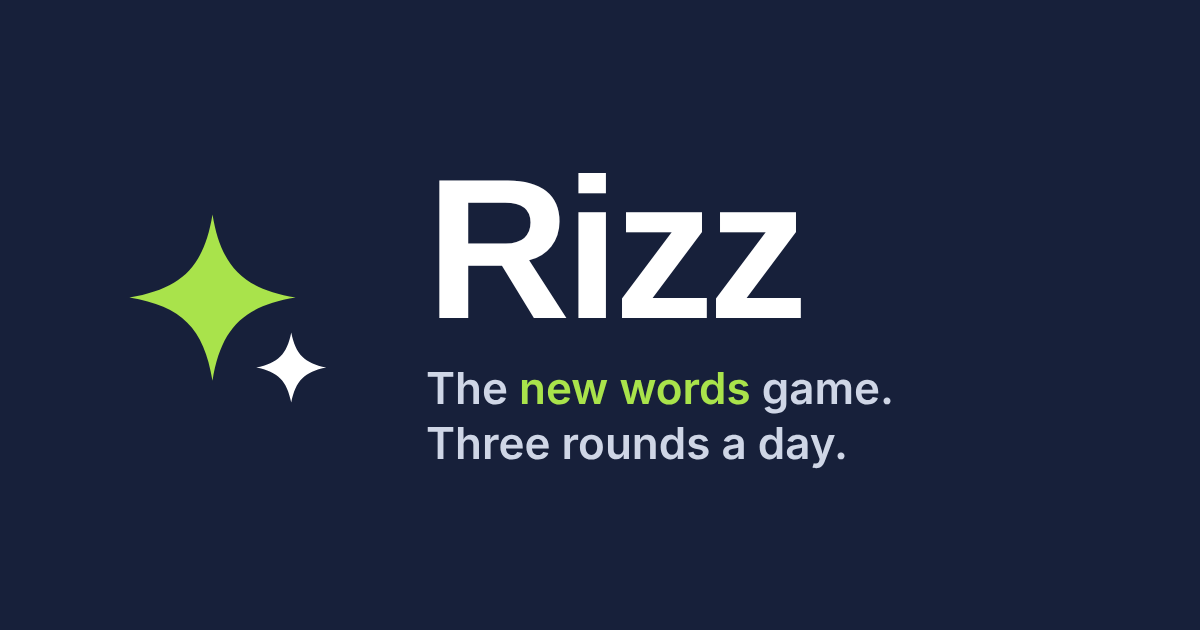
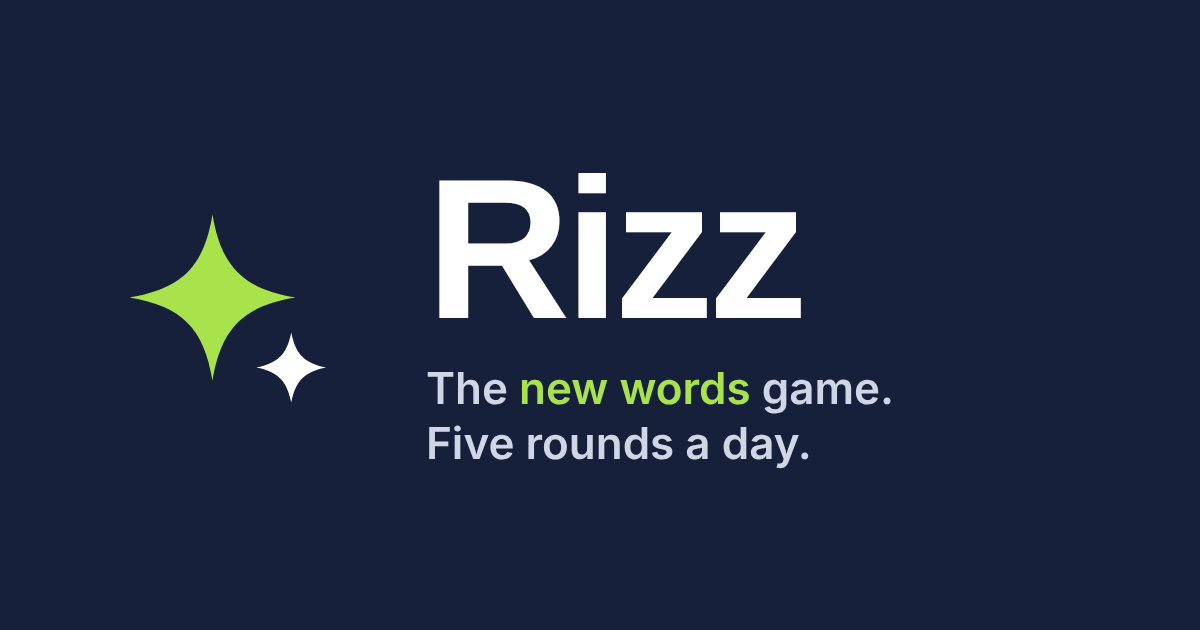
Rizz: five mixed rounds a day from ten round types
Adds Blend it, Old word new trick, Where did it come from?, Older than you think,
Use it right, Spell it out, and a Sunday Translate it finale.

Claude-Session: https://claude.ai/code/session_01JwTRy2HaWojF1gWLi9FkmA

Changed region(s): [[0.3392, 0.6635, 0.7092, 0.754]]

diff --git a/rizz/data.js b/rizz/data.js
@@ -90,3 +90,141 @@ const FAKE = [
  {r:[["dashcam","A camera on a car's dashboard","Merriam-Webster, 2025"],["dad bod","A comfy, less-than-gym-toned physique","Merriam-Webster, 2025"],["shapewear","Tight underwear that smooths your outline","Merriam-Webster, 2026"]],k:["carpark karma","Finding a space right by the door"]},
  {r:[["side-eye","A sideways look of disapproval","Merriam-Webster, 2025"],["padawan","A beginner learning from an expert","Merriam-Webster, 2023"],["logline","A one-sentence summary of a story","Merriam-Webster, 2023"]],k:["sidewit","A clever reply you only think of afterwards"]}
 ];
+
+// ---------- Rounds added on 28 Oct 2026 ----------
+// The standard shape: w = the word, a = the right answer, f = three wrong answers, o = the story shown afterwards.
+
+// Blend it · which two words were squashed together?
+const BLEND = [
+ {w:"copium",a:"cope + opium",f:["copy + delirium","cop + premium","cope + optimism"],o:"An imaginary ‘drug’ of denial after a disappointment. Added to Merriam-Webster in 2026."},
+ {w:"smishing",a:"SMS + phishing",f:["smash + fishing","smirk + wishing","small + phishing"],o:"Scamming people by text message. Added to Merriam-Webster in 2023."},
+ {w:"jorts",a:"jeans + shorts",f:["jogging + shorts","joke + sports","jersey + skirts"],o:"Denim shorts. Added to Merriam-Webster in 2023."},
+ {w:"staycation",a:"stay + vacation",f:["station + vacation","stay + location","stack + occasion"],o:"A holiday at or near home. It caught on during the money worries of 2008."},
+ {w:"glamping",a:"glamorous + camping",f:["glam rock + camping","glamour + clamping","gleaming + damping"],o:"Camping with comfy beds, proper loos and fairy lights."},
+ {w:"mansplain",a:"man + explain",f:["mansion + plain","manly + complain","man + plainly"],o:"When a man explains something, often patronisingly, to someone who already knows it. The Oxford English Dictionary added it in 2018."},
+ {w:"bromance",a:"brother + romance",f:["brolly + romance","broken + romance","brother + bromide"],o:"A close, non-romantic friendship between two men. <i>Bro</i> is short for brother."},
+ {w:"frenemy",a:"friend + enemy",f:["French + enemy","frenzy + enemy","friend + memory"],o:"Someone who acts like a friend but is really a rival. It's older than you might think: the American columnist Walter Winchell used it in 1932."},
+ {w:"vlog",a:"video + blog",f:["voice + log","visual + logic","vinyl + blog"],o:"A video diary posted online."},
+ {w:"webinar",a:"web + seminar",f:["web + binary","weekly + seminar","website + dinner"],o:"A talk or class held online."},
+ {w:"emoticon",a:"emotion + icon",f:["emoji + cartoon","emote + continue","emotion + cone"],o:"A face made of keyboard symbols, like :-). It came before the emoji."},
+ {w:"phablet",a:"phone + tablet",f:["photo + tablet","phantom + tablet","phone + Bluetooth"],o:"A phone so big it's almost a tablet."},
+ {w:"sharenting",a:"sharing + parenting",f:["share + renting","sharp + parenting","sharing + tenting"],o:"Parents posting lots of photos and news about their children online."},
+ {w:"tradwife",a:"traditional + wife",f:["trading + wife","tradesman's + wife","tradition + midwife"],o:"A wife and mother who cooks and cleans at home and posts about it online. Cambridge Dictionary added it in 2025."},
+ {w:"athleisure",a:"athletic + leisure",f:["athlete + pleasure","Athens + leisure","athletic + treasure"],o:"Sports clothes worn as everyday clothes."},
+ {w:"Brexit",a:"Britain + exit",f:["breakfast + exit","British + extra","break + exit"],o:"The UK leaving the European Union. Collins Word of the Year for 2016."},
+ {w:"permacrisis",a:"permanent + crisis",f:["permafrost + crisis","permission + crisis","perfect + crisis"],o:"A long stretch of instability and worry. Collins Word of the Year for 2022."},
+ {w:"cosplay",a:"costume + play",f:["cosy + play","cosmic + display","costly + replay"],o:"Dressing up as a character from a film, comic or game."},
+ {w:"chillax",a:"chill + relax",f:["chilli + relax","chill + tax","children + relax"],o:"To calm down and take it easy."}
+];
+
+// Old word, new trick · old = what it used to mean; a = the new meaning.
+const TRICK = [
+ {w:"jelly",old:"a wobbly pudding",a:"Jealous",f:["Very tired","Nervous and shaky","Overexcited"],o:"Short for jealous. The Oxford English Dictionary added this meaning in March 2026."},
+ {w:"nerf",old:"a make of soft foam toys",a:"To make something weaker, especially in a video game",f:["To fire foam darts at a friend","To pad something so it's safe","To make something look cuter"],o:"From the squashy Nerf toys. Added to Merriam-Webster in 2023."},
+ {w:"hallucinate",old:"to see things that aren't there",a:"When an AI makes something up and presents it as fact",f:["When a screen flickers","When a computer runs slowly","When a phone shows a fake alert"],o:"Cambridge Dictionary and Dictionary.com both made it Word of the Year in 2023."},
+ {w:"boss",old:"the person in charge at work",a:"A big enemy you must beat to move on in a video game",f:["The best player on a team","The person who sets up an online game","A secret level in a game"],o:"Added to Merriam-Webster in 2023."},
+ {w:"ghost",old:"the spirit of a dead person",a:"To suddenly stop replying to someone, with no explanation",f:["To follow someone online without posting","To sneak into a party uninvited","To pretend to be ill"],o:"One day they're chatting, the next they've vanished."},
+ {w:"troll",old:"a creature from folk tales that lives under a bridge",a:"Someone who posts things online just to upset people",f:["Someone who reads everything but never posts","A fake account run by a computer","Someone who deletes their posts quickly"],o:"Possibly also from <i>trolling</i>, dragging a fishing line to see what bites."},
+ {w:"cloud",old:"a mass of water drops in the sky",a:"Storage and computing on the internet, not on your own device",f:["A slow internet connection","A blurry photo","A group of people online at once"],o:"Your photos ‘in the cloud’ are really on computers somewhere else."},
+ {w:"stream",old:"a small river",a:"To watch or listen to something over the internet as it plays",f:["To download lots of files at once","To cry while watching a film","To type very fast"],o:"The video flows to you, like water."},
+ {w:"spam",old:"a tinned meat",a:"Unwanted junk messages sent to lots of people",f:["A message sent by mistake","A very short email","A deleted message"],o:"From a Monty Python sketch where everything on the menu comes with Spam, whether you want it or not."},
+ {w:"catfish",old:"a fish with whiskers",a:"To trick someone online by pretending to be someone else",f:["To post lots of pet photos","To fish for compliments online","To send someone a silly picture"],o:"From the 2010 documentary film <i>Catfish</i>."},
+ {w:"salty",old:"tasting of salt",a:"Bitter or annoyed, especially after losing",f:["Rude and swearing a lot","Very sweaty after exercise","Funny in a clever way"],o:"Lost the match and still moaning about it? You're salty."},
+ {w:"extra",old:"more than usual",a:"Over the top, making a big fuss",f:["Staying late at work","Always hungry","Very generous"],o:"A birthday with fireworks, a choir and a horse? That's extra."},
+ {w:"tea",old:"a hot drink",a:"Gossip",f:["A short break from your phone","Good advice","An awkward silence"],o:"Usually <i>spill the tea</i>: tell us everything."},
+ {w:"flex",old:"to bend",a:"To show off",f:["To change your plans","To exercise in public","To agree to anything"],o:"From flexing your muscles. A new car on Instagram? That's a flex."},
+ {w:"viral",old:"caused by a virus",a:"Shared very quickly by huge numbers of people online",f:["Full of fake news","Damaged by a computer bug","Popular with teenagers only"],o:"It spreads from person to person, like a virus."},
+ {w:"charismatic",old:"full of charm",a:"Describing animals, like pandas, that people love and want to protect",f:["Describing a pet that obeys commands","Describing a famous person who gives to charity","Describing a city that's good for tourists"],o:"Cute animals help conservation charities raise money. The Oxford English Dictionary added this meaning in March 2026."},
+ {w:"basic",old:"simple",a:"Unoriginal: liking whatever everyone else likes",f:["Rich but mean","Shy in big groups","Bad at technology"],o:"Pumpkin spice latte in a cosy jumper? Some would call that basic."},
+ {w:"cap",old:"a hat",a:"A lie",f:["A joke","A promise","A secret"],o:"<i>No cap</i> means ‘no lie, honestly’."}
+];
+
+// Where did it come from? · a = what the word was born in.
+// Never use a wrong answer the word also passed through (for example a film of the book).
+const SOURCE = [
+ {w:"cyberspace",a:"Sci-fi story",f:["Film","Song","Video game"],o:"Coined by William Gibson in a 1982 science-fiction story, years before most people had heard of the internet."},
+ {w:"muggle",a:"Children's book",f:["Song","TV cartoon","Poem"],o:"A person with no magic powers, from J.K. Rowling's Harry Potter books."},
+ {w:"gaslighting",a:"Film",f:["Novel","Song","Video game"],o:"From the 1944 film <i>Gaslight</i>, in which a husband tricks his wife into doubting her own mind. It was based on a 1938 play. Merriam-Webster's Word of the Year for 2022."},
+ {w:"stan",a:"Song",f:["Film","Novel","Video game"],o:"A super-fan. From Eminem's 2000 song ‘Stan’, about an obsessive fan."},
+ {w:"grok",a:"Novel",f:["Song","Video game","TV cartoon"],o:"To understand something completely. From Robert Heinlein's 1961 science-fiction novel <i>Stranger in a Strange Land</i>."},
+ {w:"Big Brother",a:"Novel",f:["Song","Video game","TV advert"],o:"From George Orwell's 1949 novel <i>Nineteen Eighty-Four</i>. The reality TV show borrowed the name decades later."},
+ {w:"Catch-22",a:"Novel",f:["Song","Radio show","TV advert"],o:"A no-win situation. From Joseph Heller's 1961 novel about airmen in the Second World War."},
+ {w:"Jedi",a:"Film",f:["Novel","Song","Poem"],o:"The wise warriors of <i>Star Wars</i>, first seen in 1977."},
+ {w:"chortle",a:"Poem",f:["Song","TV comedy","Film"],o:"Chuckle plus snort, made up by Lewis Carroll in his 1871 poem ‘Jabberwocky’."},
+ {w:"Scrooge",a:"Novel",f:["Song","Poem","TV cartoon"],o:"A mean person. Ebenezer Scrooge is the miser in Charles Dickens's <i>A Christmas Carol</i> (1843)."},
+ {w:"hobbit",a:"Children's book",f:["Song","Poem","TV comedy"],o:"From J.R.R. Tolkien's <i>The Hobbit</i> (1937)."},
+ {w:"d'oh",a:"TV cartoon",f:["Film","Novel","Song"],o:"Homer Simpson's cry of annoyance. The Oxford English Dictionary added it in 2001."},
+ {w:"Tardis",a:"Sci-fi TV show",f:["Novel","Film","Song"],o:"From <i>Doctor Who</i>, first shown in 1963. Now used for anything that's bigger on the inside than it looks."},
+ {w:"bazinga",a:"TV comedy",f:["Video game","Film","Novel"],o:"Sheldon's catchphrase in <i>The Big Bang Theory</i>, after he's played a joke on someone."}
+];
+
+// Older than you think · a = when it was first written down.
+const OLDER = [
+ {w:"unfriend",a:"1650s",f:["1880s","1950s","2000s"],o:"In 1659 Thomas Fuller wrote: ‘I hope, Sir, that we are not mutually un-friended by this difference.’ Facebook came along 345 years later."},
+ {w:"influencer",a:"1660s",f:["1890s","1970s","2000s"],o:"It meant any person or thing with influence. Being one as a job came much later."},
+ {w:"OMG",a:"1910s",f:["1960s","1980s","1990s"],o:"In a 1917 letter to Winston Churchill from the retired admiral Lord Fisher."},
+ {w:"hangry",a:"1950s",f:["1990s","2000s","2010s"],o:"Hungry plus angry. It goes back to at least the 1950s, though the Oxford English Dictionary only added it in 2018."},
+ {w:"nerd",a:"1950s",f:["1890s","1920s","1970s"],o:"First found in Dr Seuss's 1950 book <i>If I Ran the Zoo</i>, as one of his imaginary creatures."},
+ {w:"brunch",a:"1890s",f:["1950s","1970s","1990s"],o:"In 1895: ‘when a man makes lunch his first meal of the day it becomes brunch’."},
+ {w:"smog",a:"1900s",f:["1950s","1960s","1970s"],o:"Smoke plus fog, first recorded in 1905 and said to describe London."},
+ {w:"dude",a:"1880s",f:["1950s","1960s","1980s"],o:"It first mocked a fussy, overdressed man about town."},
+ {w:"legit",a:"1890s",f:["1960s","1980s","2000s"],o:"Theatre slang for ‘legitimate’ drama, as opposed to music hall and burlesque."},
+ {w:"hipster",a:"1930s",f:["1960s","1990s","2000s"],o:"From the late 1930s, for someone ahead of the latest trends."},
+ {w:"ginormous",a:"1940s",f:["1970s","1990s","2000s"],o:"Gigantic plus enormous. It started as military slang and was in a British newspaper by 1942."},
+ {w:"meme",a:"1970s",f:["1990s","2000s","2010s"],o:"Coined by the biologist Richard Dawkins in his 1976 book <i>The Selfish Gene</i>, for an idea that spreads from person to person."},
+ {w:"OK",a:"1830s",f:["1910s","1940s","1960s"],o:"First printed in a Boston newspaper in 1839, as a jokey short form of ‘oll korrect’."}
+];
+
+// Use it right · a = the one sentence that uses the word properly.
+const USE = [
+ {w:"mid",a:"Honestly, the film was a bit mid. I wouldn't watch it again.",f:["That film was so mid, I've watched it five times!","I'll meet you mid, by the clock tower.","She's very mid: always first with the answer."],o:"<i>Mid</i> means average, nothing special."},
+ {w:"delulu",a:"He thinks he'll play for England next week. He's totally delulu.",f:["I'm so delulu after that long run, I need a nap.","The pasta was delulu, so I had seconds.","We got delulu on the way home and had to ask directions."],o:"<i>Delulu</i> means believing things that aren't true, usually because you'd rather."},
+ {w:"rizz",a:"He's got so much rizz, everyone at the party wanted to talk to him.",f:["I spilt rizz all over the kitchen floor.","Don't shake the bottle or the rizz will go flat.","She rizzed on for an hour about her day at work."],o:"<i>Rizz</i> is charm, the kind that wins people over."},
+ {w:"doomscroll",a:"I meant to sleep at ten, but I doomscrolled the news until midnight.",f:["I doomscrolled through the recipe book to find the cake.","He doomscrolled the old wallpaper off the wall.","She doomscrolled her essay and got top marks."],o:"To <i>doomscroll</i> is to keep scrolling through bad news even though it makes you feel worse."},
+ {w:"zhuzh",a:"The room's nearly done. It just needs a cushion to zhuzh it up.",f:["The lemonade zhuzhed everywhere when I opened it.","He zhuzhed off without saying goodbye.","Please zhuzh quietly, the baby's asleep."],o:"To <i>zhuzh</i> something is to give it a quick touch to make it look better."},
+ {w:"bussin'",a:"These chips are bussin'! Can I have the recipe?",f:["The station was bussin', so we couldn't get a seat.","I'm bussin' to school today, the car's broken.","Stop bussin' and let me finish my sentence."],o:"<i>Bussin'</i> means really good, especially food."},
+ {w:"touch grass",a:"You've been gaming all weekend. Go and touch grass.",f:["After the exam I touched grass: I got every answer right.","She touched grass and finally became famous.","The team touched grass by scoring in the last minute."],o:"To <i>touch grass</i> is to get offline and back into the real world."},
+ {w:"glow-up",a:"Have you seen the old town hall since they did it up? What a glow-up.",f:["We had a glow-up at the fireworks last night.","Turn the glow-up down, it's too bright.","I've got a glow-up meeting at nine."],o:"A <i>glow-up</i> is a big improvement in how someone or something looks."},
+ {w:"Sunday scaries",a:"About six o'clock every Sunday, the Sunday scaries kick in.",f:["We watched the Sunday scaries on TV with popcorn.","The Sunday scaries are on at the cinema.","I bought some Sunday scaries for Halloween."],o:"The <i>Sunday scaries</i> are the worried feeling as the weekend ends."},
+ {w:"coffee badging",a:"She went in at ten, said hello, and was home by eleven. Classic coffee badging.",f:["I'm coffee badging: I've had five cups today.","He's coffee badging, saving stamps for a free drink.","They're coffee badging the new staff with name tags."],o:"<i>Coffee badging</i> is popping into the office just long enough to be seen."},
+ {w:"copium",a:"‘We'll win the league next year,’ said the fan, high on copium.",f:["Add a spoonful of copium to the stew.","He copied the homework using copium.","The new roof is made of copium."],o:"<i>Copium</i> is the imaginary ‘drug’ of denial after a let-down."},
+ {w:"sanewash",a:"The report sanewashed his rambling speech, making it sound sensible.",f:["She sanewashed the car before selling it.","I always sanewash my hands before cooking.","The jumper needs a sanewash on a cool cycle."],o:"To <i>sanewash</i> is to make something extreme or odd sound reasonable. Dictionary.com added it in 2025."},
+ {w:"quiet quit",a:"He's quiet quitting: he does his hours and not a minute more.",f:["She quiet quit the choir by singing very softly.","They quiet quit the library to avoid being shushed.","I quiet quit my car so it wouldn't wake the neighbours."],o:"To <i>quiet quit</i> is to do only the bare minimum at work."},
+ {w:"lowkey",a:"I'm lowkey excited about the school fair, but don't tell anyone.",f:["Turn the music lowkey, I'm on the phone.","The lowkey is under the mat if you're locked out.","He sang the whole song in lowkey."],o:"<i>Lowkey</i> means a bit, or secretly."}
+];
+
+// Spell it out · a = what the letters stand for.
+const SPELL = [
+ {w:"ngl",a:"not gonna lie",f:["never gonna leave","nice game, lads","no good luck"],o:"Added to Merriam-Webster in 2023."},
+ {w:"TFW",a:"that feeling when",f:["thanks for waiting","too far west","the final word"],o:"Used to start a relatable moment. Added to Merriam-Webster in 2023."},
+ {w:"TTYL",a:"talk to you later",f:["thanks, try your luck","take the year long","time to yell loudly"],o:"Added to Merriam-Webster in 2023."},
+ {w:"WFH",a:"working from home",f:["waiting for help","weekend family holiday","wish for happiness"],o:"Added to Merriam-Webster in 2025."},
+ {w:"GOAT",a:"greatest of all time",f:["game over, all together","going out at teatime","get out and train"],o:"<i>GOATED</i>, meaning considered the greatest, was added to Merriam-Webster in 2023."},
+ {w:"AGI",a:"artificial general intelligence",f:["automatic game interface","advanced graphics input","all-generation internet"],o:"An AI that could match people at almost any task. Added to Merriam-Webster in 2026."},
+ {w:"FOMO",a:"fear of missing out",f:["friends of my office","full of more options","fun on Mondays only"],o:"The worry that everyone else is having fun without you."},
+ {w:"IRL",a:"in real life",f:["I'm really late","instant reply link","in Rome lately"],o:"As opposed to online."},
+ {w:"IYKYK",a:"if you know, you know",f:["if you keep, you keep","I'm young, keep young, kids","if you're kind, you're kind"],o:"For an in-joke that only some people will get."},
+ {w:"POV",a:"point of view",f:["proof of video","picture of value","pop-up video"],o:"Very popular for videos showing a scene through someone's eyes."},
+ {w:"OOTD",a:"outfit of the day",f:["out of the door","one of those days","order on Thursday"],o:"Posted with a photo of what you're wearing."},
+ {w:"TBH",a:"to be honest",f:["the best half","thanks, big help","time before home"],o:"Usually just before something blunt."},
+ {w:"ICYMI",a:"in case you missed it",f:["I can't yet mention it","if conditions yield more info","I'm calling you, my idol"],o:"Used when sharing something again."},
+ {w:"SMH",a:"shaking my head",f:["so much happiness","send me help","see my house"],o:"For something silly or disappointing."},
+ {w:"TIL",a:"today I learned",f:["till I leave","tell it loudly","time is limited"],o:"Before an interesting fact you've just found out."},
+ {w:"BRB",a:"be right back",f:["bring rain boots","big round of biscuits","be really brave"],o:"One of the oldest bits of chat-room shorthand."},
+ {w:"AFK",a:"away from keyboard",f:["always fun and kind","ask for kindness","all friends know"],o:"Gamers say it when they step away."},
+ {w:"DM",a:"direct message",f:["daily meme","dream moment","don't mind"],o:"A private message on social media."},
+ {w:"FWIW",a:"for what it's worth",f:["fine, whatever, I win","friends with internet wifi","for when I'm working"],o:"A modest way to offer an opinion."}
+];
+
+// Translate it · Sundays only, as the last round. w = a sentence full of new words; a = the right plain-English version.
+const TRANSLATE = [
+ {w:"Ngl, that smashburger was bussin', no cap.",a:"Honestly, that burger was delicious. I mean it.",f:["Honestly, that burger was too greasy, I'm afraid.","I didn't order the burger, but it looked good.","That burger was overpriced, but I'm not complaining."],o:"<i>ngl</i> = not gonna lie · <i>bussin'</i> = really good · <i>no cap</i> = no lie."},
+ {w:"He's so delulu. He thinks he's got rizz, but it's pure copium.",a:"He's kidding himself. He thinks he's charming, but he's just in denial.",f:["He's confused. He thinks he's clever, but he's just tired.","He's very lucky. He's charming and he knows it.","He's grumpy. He thinks he's ill, but he's just hungry."],o:"<i>delulu</i> = believing what isn't true · <i>rizz</i> = charm · <i>copium</i> = denial."},
+ {w:"The Sunday scaries hit hard, so I doomscrolled till midnight. Need to touch grass.",a:"I was dreading Monday, so I read bad news online for hours. I need to get outside.",f:["I had nightmares on Sunday, so I read a scary book till midnight. I need to mow the lawn.","I was bored on Sunday, so I played games till midnight. I need a holiday.","I was excited about Monday, so I couldn't sleep. I need to go for a run."],o:"<i>Sunday scaries</i> = worry as the weekend ends · <i>doomscroll</i> = keep reading bad news · <i>touch grass</i> = go offline."},
+ {w:"The café had a total glow-up, but the cake's lowkey mid.",a:"The café looks much better after its makeover, but honestly the cake is just average.",f:["The café has new lights, but the cake is quietly excellent.","The café looks the same, but the cake is half price.","The café is very bright, and the cake is the best in town."],o:"<i>glow-up</i> = big improvement · <i>lowkey</i> = a bit, or secretly · <i>mid</i> = average."},
+ {w:"He was coffee badging again, then ghosted the team chat. Not GOATed behaviour.",a:"He popped into the office briefly again, then stopped answering the team's messages. Not great.",f:["He bought everyone coffee again, then sent the team a spooky message. Very kind.","He forgot his office pass again, then left the team chat. Not his fault.","He drank too much coffee again, then talked non-stop in the team chat. Typical."],o:"<i>coffee badging</i> = showing your face at the office · <i>ghost</i> = stop replying · <i>GOATed</i> = the greatest."},
+ {w:"Ngl, I'm lowkey jelly of your jorts.",a:"Honestly, I'm secretly a bit jealous of your denim shorts.",f:["Honestly, I've spilt jelly on your jogging shorts.","Honestly, your shorts are a bit too small for you.","Honestly, I'd like to borrow your jumper tonight."],o:"<i>ngl</i> = not gonna lie · <i>lowkey</i> = secretly · <i>jelly</i> = jealous · <i>jorts</i> = denim shorts."},
+ {w:"TFW the update nerfs your best character and your mate rage quits. SMH.",a:"That feeling when the game update weakens your best character and your friend storms off in a temper. Shaking my head.",f:["That feeling when the update makes your character stronger and your friend wins. Well done.","That feeling when the update deletes your saved game and your friend laughs. So funny.","That feeling when your friend gets hit by a foam dart and leaves the team. Ouch."],o:"<i>TFW</i> = that feeling when · <i>nerf</i> = weaken · <i>rage quit</i> = give up in a temper · <i>SMH</i> = shaking my head."},
+ {w:"Tbh the sequel was mid, but the cutscenes? Chef's kiss.",a:"To be honest, the sequel was only average, but the film scenes between the gameplay were brilliant.",f:["To be honest, the sequel was brilliant, but the trailers were too long.","To be honest, I fell asleep halfway, but the popcorn was lovely.","To be honest, the sequel was cut short, but the actors blew kisses."],o:"<i>tbh</i> = to be honest · <i>mid</i> = average · <i>cutscene</i> = a scene you watch rather than play · <i>chef's kiss</i> = perfect."},
+ {w:"My friend's finsta is full of OOTD pics. Very 'grammable, ngl.",a:"My friend's secret second Instagram account is full of outfit photos. They look great on Instagram, honestly.",f:["My friend's fitness app is full of workout photos. Very tiring, honestly.","My friend's new phone is full of old photos. Very blurry, honestly.","My friend's photo album is full of holiday snaps. Very boring, honestly."],o:"<i>finsta</i> = a secret Instagram account · <i>OOTD</i> = outfit of the day · <i>'grammable</i> = worth posting · <i>ngl</i> = not gonna lie."}
+];

diff --git a/rizz/index.html b/rizz/index.html
@@ -4,7 +4,7 @@
 <meta charset="utf-8">
 <meta name="viewport" content="width=device-width,initial-scale=1">
 <title>Rizz</title>
-<meta name="description" content="A daily game of brand-new words. What they mean, when they landed, and which one we made up.">
+<meta name="description" content="A daily game of brand-new words: what they mean, where they came from, and which one we made up.">
 <meta name="robots" content="noindex">
 <link rel="icon" href="/rizz/favicon.svg" type="image/svg+xml">
 <link rel="apple-touch-icon" href="/rizz/apple-touch-icon.png">
@@ -12,7 +12,7 @@
 <meta property="og:url" content="https://samey.uk/rizz/">
 <meta property="og:site_name" content="Rizz">
 <meta property="og:title" content="Rizz: the new words game">
-<meta property="og:description" content="Three quick rounds a day on the newest words in English.">
+<meta property="og:description" content="Five quick rounds a day on the newest words in English.">
 <meta property="og:image" content="https://samey.uk/rizz/og-image.png">
 <link rel="preconnect" href="https://fonts.googleapis.com">
 <link rel="preconnect" href="https://fonts.gstatic.com" crossorigin>
@@ -52,6 +52,9 @@ button{font:inherit;color:inherit;cursor:pointer}
 .opt .m{display:block;color:var(--muted);font-size:15px;margin-top:2px}
 .opt .src{display:none;font-size:13px;color:var(--muted);margin-top:4px}
 .opt.shown .src{display:block}
+.opts.two.words .opt{font-size:18px;font-family:inherit;font-weight:600}
+.opts.long .opt{font-size:16px;line-height:1.35}
+.word .say{display:block;font-size:clamp(22px,6.4vw,28px);line-height:1.25;letter-spacing:0}
 .reveal{margin-top:16px;padding:14px 16px;border-radius:12px;background:var(--chip)}
 .reveal b{display:block;margin-bottom:4px}
 .reveal .more{display:block;margin-top:8px;font-size:14px}
@@ -115,19 +118,50 @@ a.primary{text-align:center;text-decoration:none}
 <script src="data.js"></script>
 <script>
 // ---- Schedule ----
-// Rizz No. 1 is START. Each day takes the next item from each of the three lists in data.js.
-// Lists start again from the top when they run out, so add more before then (the shortest list sets the limit).
+// Rizz No. 1 is START. Every day has five rounds, picked from ten round types:
+//  · Monday to Saturday: five of the nine everyday rounds.
+//  · Sunday: four of them, then Translate it as the finale.
+// The nine take turns (see CYCLE), so each one comes up about every other day. Each round type works through its own
+// list in data.js and starts again from the top when it runs out, so keep adding words (shortest lists run out first).
 // PREVIEW: set START to the launch day when Rizz goes live.
 const START=Date.UTC(2026,9,28);
 const dayDate=n=>new Date(START+n*864e5);   // read with UTC getters
 const keyOf=n=>{const d=dayDate(n);return d.getUTCFullYear()+'-'+String(d.getUTCMonth()+1).padStart(2,'0')+'-'+String(d.getUTCDate()).padStart(2,'0')};
 const fmt=(n,o)=>dayDate(n).toLocaleDateString('en-GB',Object.assign({timeZone:'UTC'},o));
-const ROUNDS=[
-  {key:'mean',name:"What's it mean?",blurb:'Pick the real meaning of a new word',list:MEAN},
-  {key:'when',name:'When did it land?',blurb:'Guess the year it was Word of the Year',list:WHEN},
-  {key:'fake',name:'Real or rizz?',blurb:'Three are in the dictionary. Spot the one we made up',list:FAKE}
-];
-const itemsFor=n=>ROUNDS.map(r=>r.list[n%r.list.length]);
+const T={
+  spell:{name:'Spell it out',blurb:'What do the letters stand for?',list:SPELL,q:()=>'What does it stand for?'},
+  mean:{name:"What's it mean?",blurb:'Pick the real meaning of a new word',list:MEAN,q:()=>'What does it mean?'},
+  blend:{name:'Blend it',blurb:'Which two words were squashed together?',list:BLEND,q:()=>'Which two words make it up?'},
+  trick:{name:'Old word, new trick',blurb:"What's the new meaning of an old word?",list:TRICK,q:it=>`It used to mean ${it.old}. What does it mean now?`},
+  use:{name:'Use it right',blurb:'Only one sentence gets the word right',list:USE,q:()=>'Which sentence uses it properly?'},
+  source:{name:'Where did it come from?',blurb:'What was the word born in?',list:SOURCE,q:()=>'Where was it born?',two:true},
+  older:{name:'Older than you think',blurb:'When was it first written down?',list:OLDER,q:()=>'When was it first written down?',two:true},
+  fake:{name:'Real or rizz?',blurb:'Spot the word we made up',list:FAKE,q:()=>'Three of these are in the dictionary. Which one did we make up?'},
+  when:{name:'When did it land?',blurb:'Guess the year it was Word of the Year',list:WHEN,q:it=>`Which year was it ${esc(it.by)}'s Word of the Year?`,two:true},
+  translate:{name:'Translate it',blurb:'Sunday special: say it in plain English',list:TRANSLATE,q:()=>'What does it mean in plain English?'}
+};
+const PLAY_ORDER=['spell','mean','blend','trick','use','source','older','fake','when','translate'];   // easier rounds first
+const CYCLE=['mean','blend','when','use','spell','fake','trick','older','source'];
+const isSunday=n=>dayDate(n).getUTCDay()===0;
+function plan(n){
+  let p=0;const seen={};let today=null;
+  for(let d=0;d<=n;d++){
+    const take=isSunday(d)?4:5,keys=[];
+    for(let i=0;i<take;i++)keys.push(CYCLE[(p+i)%CYCLE.length]);
+    p+=take;if(isSunday(d))keys.push('translate');
+    if(d===n)today=keys.map(k=>({k,c:seen[k]||0}));
+    keys.forEach(k=>seen[k]=(seen[k]||0)+1);
+  }
+  // Pick each round's item. If a word is already in another of today's rounds, use the next one in that list instead.
+  const used=new Set(),norm=s=>String(s).toLowerCase().replace(/[^a-z0-9]/g,'');
+  const wordsOf=(k,it)=>k==='fake'?[...it.r.map(x=>x[0]),it.k[0]]:k==='translate'?[]:[it.w];
+  return today.sort((x,y)=>PLAY_ORDER.indexOf(x.k)-PLAY_ORDER.indexOf(y.k)).map(({k,c})=>{
+    const L=T[k].list;let it=L[c%L.length];
+    for(let j=1;j<L.length&&wordsOf(k,it).some(w=>used.has(norm(w)));j++)it=L[(c+j)%L.length];
+    wordsOf(k,it).forEach(w=>used.add(norm(w)));
+    return{key:k,...T[k],it};
+  });
+}
 
 // ---- Which day is on screen ----
 // samey.uk/rizz/#test plays today without saving; add ?day=N for Rizz No. N (any day, past or future).
@@ -144,7 +178,9 @@ const td=parseInt(params.get('day'),10);
 const N=Number.isInteger(td)&&td>=1&&(isTest||(ARCH&&td<=TODAY))?td-1:TODAY;
 const isArch=!isTest&&N<TODAY;
 const dateKey=keyOf(N);
-const items=itemsFor(N);
+const esc=s=>String(s).replace(/[&<>"]/g,c=>({'&':'&amp;','<':'&lt;','>':'&gt;','"':'&quot;'}[c]));
+const ROUNDS=plan(N);
+const items=ROUNDS.map(r=>r.it);
 const store={get(k){try{return JSON.parse(localStorage.getItem(k))}catch(e){return null}},set(k,v){try{localStorage.setItem(k,JSON.stringify(v))}catch(e){}}};
 
 // Seeded shuffle so everyone sees the same option order on the same day
@@ -154,46 +190,48 @@ function order(n,seed){const r=rng(seed),a=[...Array(n).keys()];for(let i=n-1;i>
 const $=s=>document.querySelector(s);
 const app=$('#app');
 let st={i:0,res:[]};
-const esc=s=>String(s).replace(/[&<>"]/g,c=>({'&':'&amp;','<':'&lt;','>':'&gt;','"':'&quot;'}[c]));
+const lc=s=>s.charAt(0).toLowerCase()+s.slice(1);
 
 function dots(){$('#dots').innerHTML=items.map((_,k)=>`<div class="dot ${st.res[k]===true?'ok':st.res[k]===false?'no':k===st.i?'cur':''}"></div>`).join('')}
 
 function intro(){
   app.innerHTML=`<div class="card"><div class="tag">${isArch||isTest?fmt(N,{weekday:'long',day:'numeric',month:'long'}):'Today'}</div>
-  <div class="q">Three quick rounds on the newest words in English.</div>
-  <p class="muted" style="margin:6px 0 0">One go at each. You'll get the story after every answer.</p>
+  <div class="q">Five quick rounds on the newest words in English.</div>
+  <p class="muted" style="margin:6px 0 0">One go at each. The rounds change every day${isSunday(N)?', and Sundays end with a special':''}. Here's today's mix:</p>
   <ul class="rounds">${ROUNDS.map(r=>`<li><b>${r.name}</b> · ${r.blurb}</li>`).join('')}</ul>
   <button class="primary" id="go">Play</button></div>`;
   $('#go').onclick=()=>{st={i:0,res:[]};round()};
   dots();
 }
 
-function shell(head,q,body){
-  const R=ROUNDS[st.i];
-  return `<div class="card"><div class="entry"><div class="tag">Round ${st.i+1} · ${R.name}</div>
-  <div class="word">${head}</div></div>
-  <div class="q">${q}</div>${body}<div id="after" aria-live="polite"></div></div>`;
-}
-
 function round(){
-  const k=ROUNDS[st.i].key,it=items[st.i];dots();
+  const R=ROUNDS[st.i],k=R.key,it=R.it;dots();
   // Option 0 is always the right answer; the order on screen is shuffled.
-  let opts,head,q,cls='';
-  if(k==='mean'){opts=[it.a,...it.f].map(esc);head=`<mark>${esc(it.w)}</mark>`;q='What does it mean?'}
-  else if(k==='when'){opts=[it.a,...it.f];head=`<mark>${esc(it.w)}</mark>`;q=`Which year was it ${esc(it.by)}'s Word of the Year?`;cls=' two'}
-  else {opts=[it.k,...it.r].map(x=>`<span class="w">${esc(x[0])}</span><span class="m">${esc(x[1])}</span>${x[2]?`<span class="src">Added: ${esc(x[2])}</span>`:''}`);head='Real or <mark>rizz</mark>?';q='Three of these are in the dictionary. Which one did we make up?'}
-  const seed=dateKey+'|'+st.i+'|'+(k==='fake'?it.k[0]:it.w);
-  let ord=order(4,seed);
-  if(k==='when')ord=[...ord].sort((x,y)=>opts[x]-opts[y]);   // years read best in order
-  app.innerHTML=shell(head,q,`<div class="opts${cls}">${ord.map(x=>`<button class="opt" data-k="${x}">${opts[x]}</button>`).join('')}</div>`);
+  let opts,head;
+  if(k==='fake'){opts=[it.k,...it.r].map(x=>`<span class="w">${esc(x[0])}</span><span class="m">${esc(x[1])}</span>${x[2]?`<span class="src">Added: ${esc(x[2])}</span>`:''}`);head='Real or <mark>rizz</mark>?'}
+  else{opts=[it.a,...it.f].map(esc);head=k==='translate'?`<span class="say">“${esc(it.w)}”</span>`:`<mark>${esc(it.w)}</mark>`}
+  let ord=order(4,dateKey+'|'+k+'|'+(k==='fake'?it.k[0]:it.w));
+  if(k==='when'||k==='older')ord=[...ord].sort((x,y)=>parseInt(opts[x])-parseInt(opts[y]));   // dates read best in order
+  app.innerHTML=`<div class="card"><div class="entry"><div class="tag">Round ${st.i+1} · ${R.name}</div>
+  <div class="word">${head}</div></div><div class="q">${R.q(it)}</div>
+  <div class="opts${R.two?' two':''}${k==='source'?' words':''}${k==='use'||k==='translate'?' long':''}">${ord.map(x=>`<button class="opt" data-k="${x}">${opts[x]}</button>`).join('')}</div><div id="after" aria-live="polite"></div></div>`;
   app.querySelectorAll('.opt').forEach(b=>b.onclick=()=>{
     const ok=+b.dataset.k===0;
     app.querySelectorAll('.opt').forEach(x=>{x.disabled=true;x.classList.add('shown');if(+x.dataset.k===0)x.classList.add('right');else if(x!==b)x.classList.add('dim')});
     if(!ok)b.classList.add('wrong');
-    let story;
-    if(k==='mean')story=`<i>${esc(it.w)}</i>: ${esc(it.a.charAt(0).toLowerCase()+it.a.slice(1))}. ${it.o}`;
-    else if(k==='when')story=`<i>${esc(it.w)}</i> was ${esc(it.by)}'s Word of the Year in ${it.a}. ${it.o}`;
-    else story=`We made up <i>${esc(it.k[0])}</i>. The other three are real, and each one shows where it was added.`;
+    const W=`<i>${esc(k==='fake'?it.k[0]:it.w)}</i>`;
+    const story={
+      mean:()=>`${W}: ${esc(lc(it.a))}. ${it.o}`,
+      when:()=>`${W} was ${esc(it.by)}'s Word of the Year in ${it.a}. ${it.o}`,
+      fake:()=>`We made up ${W}. The other three are real, and each one shows where it was added.`,
+      blend:()=>`${W} = ${esc(it.a)}. ${it.o}`,
+      trick:()=>`${W} used to mean ${esc(it.old)}. Now it can also mean ${esc(lc(it.a))}. ${it.o}`,
+      source:()=>it.o,
+      older:()=>`${W} was first written down in the ${it.a}. ${it.o}`,
+      use:()=>it.o,
+      spell:()=>`${W} stands for <i>${esc(it.a)}</i>. ${it.o}`,
+      translate:()=>it.o
+    }[k]();
     after(ok,story,k==='fake'?(ok?'Spotted it.':'Not quite. That one is real.'):null);
   });
 }
@@ -207,11 +245,16 @@ function after(ok,html,head){
   nx.scrollIntoView({behavior:'smooth',block:'nearest'});
 }
 
-function rank(s){return['Out of the Loop','Lowkey Learning','Main Character','Unspoken Rizz'][s]}
+function rank(s){return['Out of the Loop','Late Adopter','Lowkey Learning','Main Character','Trendsetter','Unspoken Rizz'][s]}
 function recapLine(k,it){
-  if(k==='mean')return[it.w,it.a];
+  if(k==='fake')return[it.k[0],'the one we made up'];
   if(k==='when')return[it.w,`${it.by}, ${it.a}`];
-  return[it.k[0],'the one we made up'];
+  if(k==='trick')return[it.w,`now: ${lc(it.a)}`];
+  if(k==='older')return[it.w,`first written down in the ${it.a}`];
+  if(k==='source')return[it.w,`born in: ${lc(it.a)}`];
+  if(k==='use')return[it.w,it.a];
+  if(k==='translate')return['Sunday special',it.a];
+  return[it.w,it.a];
 }
 
 function results(){
@@ -223,7 +266,7 @@ function results(){
   const share=`Rizz No. ${N+1}${isArch?' (archive)':''}\n${s}/${n} ${ticks}\n${rank(s)}\nYour go: https://samey.uk/rizz/ #sameyuk`;
   app.innerHTML=`<div class="card center"><div class="tag">${isTest?'Test · No. '+(N+1)+' · '+nice:isArch?'No. '+(N+1)+' · '+nice:nice}</div>
   <div class="score">${s}/${n}</div><div class="ticks">${ticks}</div><div class="rank">${rank(s)}</div>
-  <p class="muted">${isArch?`<a class="inl" href="#" id="moreArch">Play another earlier puzzle</a> or <a class="inl" href="./${ARCH_TAIL}">go back to today's puzzle</a>.`:'<span data-next="Three more rounds in {t}.">Three more rounds tomorrow.</span>'+(ARCH&&TODAY>=1&&!isTest?` Can't wait? <a class="inl" href="#" id="moreArch">Play earlier puzzles</a>.`:'')}</p>
+  <p class="muted">${isArch?`<a class="inl" href="#" id="moreArch">Play another earlier puzzle</a> or <a class="inl" href="./${ARCH_TAIL}">go back to today's puzzle</a>.`:'<span data-next="A new mix of rounds in {t}.">A new mix of rounds tomorrow.</span>'+(ARCH&&TODAY>=1&&!isTest?` Can't wait? <a class="inl" href="#" id="moreArch">Play earlier puzzles</a>.`:'')}</p>
   <button class="primary" id="share">Share</button><button class="ghost" id="copy">Copy result</button>
   <ul class="recap">${items.map((it,k)=>{const [h,m]=recapLine(ROUNDS[k].key,it);return`<li><span>${st.res[k]?'✅':'❌'}</span><span class="h">${esc(h)}</span><span class="m">${esc(m)}</span><span class="flag"><a href="/feedback/?game=rizz&type=puzzle&puzzle=${encodeURIComponent((isArch?'No. '+(N+1):nice)+' · '+ROUNDS[k].name+' · '+h)}">Wrong?</a></span></li>`}).join('')}</ul></div>${document.getElementById('xgCards').innerHTML}`;
   $('#share').onclick=()=>{if(navigator.share){navigator.share({text:share}).catch(()=>{})}else{location.href='https://wa.me/?text='+encodeURIComponent(share)}};
@@ -235,7 +278,7 @@ function openArchive(){
   const list=[];
   for(let k=TODAY-1;k>=0;k--){
     const r=store.get('rizz-'+keyOf(k));
-    const stx=r&&r.length===3?`<span class="st done">${r.filter(Boolean).length}/3</span>`:'<span class="st">Play →</span>';
+    const stx=r&&r.length===5?`<span class="st done">${r.filter(Boolean).length}/5</span>`:'<span class="st">Play →</span>';
     list.push(`<li><a href="?day=${k+1}${ARCH_TAIL}"><span>No. ${k+1} <span class="when">· ${fmt(k,{weekday:'short',day:'numeric',month:'short'})}</span></span>${stx}</a></li>`);
   }
   if(!list.length)list.push('<li class="muted">No earlier puzzles yet. Come back tomorrow.</li>');
